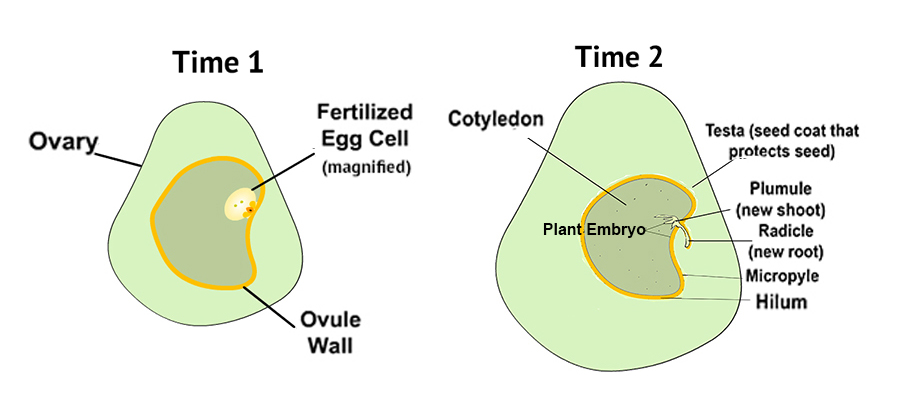
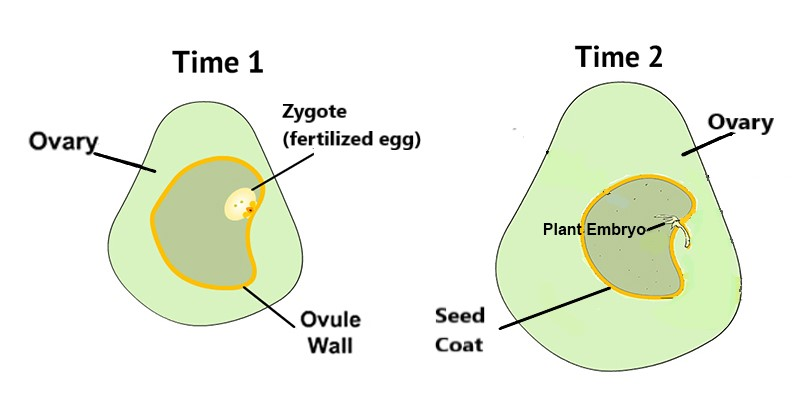
eds

Changed region(s): [[0.0925, 0.0914, 0.9556, 0.9442], [0.185, 0.1218, 0.3391, 0.1827], [0.0308, 0.335, 0.1233, 0.3959]]

diff --git a/angiosperm-reproduction/index.html b/angiosperm-reproduction/index.html
@@ -45,44 +45,51 @@
       </p>
       <p>
         The picture below (left) shows a flower of an angiosperm plant. People
-        often just think of the pretty petals as the “flower.” But, the flower is <i>more</i>
-        than just its pretty petals! The flower also includes the reproductive parts of angiosperms. The pretty petals
-        help attract insects to the flower, which helps the plants reproduce.
+        often just think of the pretty petals as the “flower.” But the flower is much more
+        than just its pretty petals! The flower also includes the reproductive parts of angiosperms.
       </p>
 
       <div class="img3Col imgClear">
         <div class="imgCol">
-          <img src="FlowerDiagramRevised7-26.jpg" / height="300" />
+          <img src="FlowerDiagramRevised_simplified.jpg" / height="300" />
         </div>
         <div class="imgCol">
           <img src="Angiosperm3.png.jpg" / height="200" />
         </div>
-        
+
       </div>
 
 
       <p>
         <b>Reproductive parts of <u>Angiosperms</u>:</b> The flower is the reproductive organ of the Angiosperm. The
-        <b>petals</b> are colorful and attract things like insects (e.g., bees) and birds to help in the fertilization
+        <b>petals</b> are colorful and attract things like insects (like the bee shown above) and birds to help in the
+        fertilization
         process. Some flowers have both male and female reproductive parts in them. Some flowers are either male or
-        female. This flower shown above has both male and female reproductive parts.
+        female. The flower shown has both male and female reproductive parts.
       </p>
 
       <ul class="brm-list">
+
         <li>
-          <b>Pistils (female)</b>. The entire <i>female</i> parts of the plant’s flower are the <b>pistils,</b> usually
-          found in the center of the flower (as in the picture above). Pistils include three parts: a stigma, style,
-          and an ovary. The <b>stigma</b> is the sticky tip of the pistil. The <b>style</b> is a slender stalk that
-          connects the stigma to a hollow structure at the base of the flower called the <b>ovary;</b> this is the area
-          that holds the <b>ovule</b> and within the ovule, one or more (very tiny) <b>egg cells.</b>
-        </li>
-        <li>
-          <b>Stamens (male)</b>. The entire <i>male</i> parts of the plant’s flower are <b>stamens</b>, which are the
+          <b>Stamens (male; note the "men" in "stamen," which can help you remember it's the male part)</b>.
+          The entire <i>male</i> parts of the plant’s flower are <b>stamens</b>, which are the
           thin stalks topped with small knobs at the top. The thin stalk is called the <b>filament</b>. The small knobs
           at the top are called <b>anthers</b>, which contain the flower’s <b>pollen</b>. Pollen is a sticky substance
           that is often yellow, orange, or white (in the picture above, you can see pollen grains that are sticking to
           the bee). Each individual pollen grain contains <b>sperm cells.</b>
         </li>
+
+        <img class="img-centered" src="FlowerDiagramRevised_relabeled.jpg" / height="350" />
+
+        <br>
+        <li>
+          <b>Pistils (female)</b>. The entire <i>female</i> parts of the plant’s flower are the <b>pistils,</b> usually
+          found in the center of the flower (as in the picture above). Pistils include three parts: a stigma, style,
+          and an ovary. The <b>stigma</b> is the sticky tip of the pistil. The <b>style</b> is a slender stalk that
+          connects the stigma to a hollow structure at the base of the flower called the <b>ovary;</b> this is the area
+          that holds the <b>ovule</b>. Within the ovule are one or more (very tiny) <b>egg cells.</b>
+        </li>
+
       </ul>
 
     </div>
@@ -94,46 +101,51 @@
         organ of the flower). The stigma can be on either the same or a different flower that the pollen came from.
       </p>
       <p>
-        When a pollen grain reaches the stigma, it produces a pollen tube that grows down through the style to
-        the ovary. In other words, the pollen grain “tunnels” down the style and to the ovary. This is shown in the
-        picture
-        below.
+        As shown below, when a pollen grain reaches the stigma, it “tunnels” down the style to the ovary and then to the
+        ovule.
       </p>
 
       <div style="text-align:left">
         <img style="float:left;margin:5px 10px 0px 0px" src="pollengrain.png" width="275" height="400"
-             alt="pollen_diagram"  />
+          alt="pollen_diagram" />
       </div>
       <br />
 
       <p>
-        <b>Fertilization.</b> The sperm cells from the pollen and egg cell in the ovule (which is within the ovary) join
-        together in the flower’s ovary to form a zygote (a fertilized egg cell). This is fertilization.
-        The zygote is the beginning of a new plant inside the seed. The zygote develops into the plant embryo.
-        The wall of the ovule becomes the seed coat, and the ovary becomes the fruit surrounding the seed.
+        <b>Fertilization.</b> When the sperm cells from the pollen meet the egg cell in the ovule, the egg is
+        fertilized. It now has all the DNA it needs to become a new plant.
+        The newly fertilized egg is called a zygote. The zygote eventually develops into a young plant.
+
       </p>
       <br><br><br><br><br><br><br><br><br><br><br><br><br><br><br>
 
       <p>
-        <b>Developing plant.</b> The picture below shows a cross-sectional view of an ovary (light green) with an ovule inside (darker green)
-        the ovary. This is shown at two points in time. At Time 1, the egg cell within the ovule has just been
-        fertilized by pollen. The fertilized egg cell is magnified in this picture so you can see it. Since it's only
-        a single cell, in reality, you could not see it with just your eyes. And Time 2: this is a later time, after
-        the egg cell has started developing into a little plant embryo. (The ovary has also become larger, turning into
-        an edible fruit.)
+        <b>Developing plant.</b> The picture below shows a cross-sectional view of an ovary (light green) with an ovule
+        inside the ovary (shown as darker green). This is shown at two points in time. At Time 1, the egg cell within
+        the ovule has just been
+        fertilized by pollen. The fertilized egg cell is magnified in this picture so you can see it. (Since it's only
+        a single cell, in reality, you'd need a microscope to see it.)
       </p>
 
-      <img class="img-centered" src="Combinedplantcells5-6.jpg" width="800" alt="plant_cell_diagram" />
+      <img class="img-centered" src="SimplifiedCombinedplantcells.jpg" width="800" alt="plant_cell_diagram" />
 
       <p>
-        After the egg is fertilized, the ovule wall (yellow-orange in the picture above) hardens to become a seed.
-        Inside the ovule (which becomes a seed), the fertilized egg cell (zygote) develops into a plant embryo. The
-        ovary, which surrounds the ovule-then-seed, also grows and becomes what we call the "fruit" we eat.
+        Time 2 (shown above, right) is a later time, after
+        the zygote has developed into a little plant embryo. At this time, the ovule wall
+        (yellow-orange in the picture above) has hardened to become a seed coat. This helps to protect the
+        developing plant.
+        As the zygote develops into a plant embryo, the ovary also grows and becomes what we call the "fruit" we eat.
       </p>
+
+    </div>
+
+    <div id="page3" class="page">
+
       <p>
-        In many angiosperms, there are actually several ovules within the ovary. Each ovule forms into a seed. The
-        ovary (the light-green part of the pictures above) grows and becomes what we call the "fruit" and eat. The ovary
-        pictured above kind of looks like a pear. We generally remove or avoid eating the seeds within the ovary/fruit. 
+        <b>Examples of fruits & seeds.</b> In many angiosperms, there are actually several ovules within the ovary.
+        Each ovule forms into a seed. The
+        ovary (the light-green part of the pictures above) grows and becomes what we call the "fruit" and eat.
+        Because of their hard shells, we generally remove the seeds within the ovary/fruit we eat. 
       </p>
       <p>
         Here are some more examples of fruits that developed from angiosperm ovaries:
@@ -142,10 +154,10 @@
       <img class="img-centered" src="fruit.jpg" />
       <br />
 
-      
     </div>
 
-    <div id="page3" class="page">
+
+    <div id="page4" class="page">
       <h4>Reproduction in Sunflowers</h4>
 
       <p>
@@ -153,7 +165,7 @@
         are the darker parts in the middle of the flowers. (The disk florets form the shape of a disc, like a
         bagel or doughnut.) This is where sunflower seeds are produced. The disk florets are surrounded by bright
         yellow "ray florets", which look like petals. But each ray floret (or "petal") is actually a flower. But the
-        petal-like ray florets cannot produce seeds; the ray florets are sterile.
+        petal-like ray florets are sterile, mearning they cannot produce seeds.
       </p>
 
       <div>
@@ -170,7 +182,8 @@
       <p>
         Each disk floret has both male parts and female parts. The male parts of each floret include anthers, which have
         pollen grains that stick to it. You can see the anthers of the disk florets in the picture below. The female
-        parts of each floret are the stigma, the style, and the ovary. Pollination happens when pollen somehow gets on
+        parts of each floret are the stigma, the style, and the ovary. Pollination happens when pollen from the anthers
+        (somehow) gets on
         the surfaces of the stigma.
       </p>
 
@@ -188,10 +201,10 @@
       </p>
     </div>
 
-    <div id="page4" class="page">
+    <div id="page5" class="page">
       <p>
-        <b>Pollination is the first step in creating seeds.</b> When pollen gets on the stigma, it starts tunneling
-        down the stigma until it gets to the ovary. The <b>sperm cells</b> from the pollen and <b>egg cell</b> in the
+        <b>Fertilization of sunflowers.</b> When pollen gets on the stigma, it starts tunneling
+        down the stigma until it gets to the ovule. The <b>sperm cells</b> from the pollen and <b>egg cell</b> in the
         ovule join together in the flower’s ovary to form a <b>zygote</b> (a fertilized egg cell). This eventually
         forms a sunflower seed.
       </p>
@@ -202,7 +215,10 @@
 
       <p>
         <b>Sunflower seeds.</b> The seeds of the sunflower plant, which is also an angiosperm, are a bit different from
-        other types of seeds. What people tend to think of as a sunflower "seed" (the black and white covering, shown
+        other types of seeds. After fertilization, instead of the ovule hardening, the ovary hardens.
+      </p>
+      <p>
+        As a result, what people tend to think of as a sunflower "seed" (the black and white covering, shown
         below, to the left) is actually the "fruit" of the sunflower from the ovary (even though you wouldn't want to
         eat it!). The seed of the sunflower (shown below, right) is actually inside the hard fruit exterior. The seed
         developed from the sunflower's fertilized ovule. This is what people eat as snacks.
@@ -225,16 +241,15 @@
     <div class="nav-toc-container">
       <h3>Table of Contents: Angiosperm Reproduction</h3>
       <ul>
-      <li><a href="#top" onclick="tocPageJump(1)">Reproductive parts of angiosperms</a></li>
+        <li><a href="#top" onclick="tocPageJump(1)">Reproductive parts of angiosperms</a></li>
         <li><a href="#top" onclick="tocPageJump(2)">Angiosperm reproduction</a></li>
-        <li><a href="#top" onclick="tocPageJump(3)">How bees reach nectar</a></li>
-        <li><a href="#top" onclick="tocPageJump(4)">How honey is made from nectar</a></li>
-        <li><a href="#top" onclick="tocPageJump(5)">Electric forces help pollination!</a></li>
-        <li><a href="#top" onclick="tocPageJump(6)">Bees also eat pollen</a></li>
+        <li><a href="#top" onclick="tocPageJump(3)">Examples of fruits & seeds</a></li>
+        <li><a href="#top" onclick="tocPageJump(4)">Reproduction in Sunflowers: Parts of Sunflowers</a></li>
+        <li><a href="#top" onclick="tocPageJump(5)">Creation of Sunflower Seeds</a></li>
       </ul>
     </div>
 
-<br><br>
+    <br><br>
 
   </div>
 
